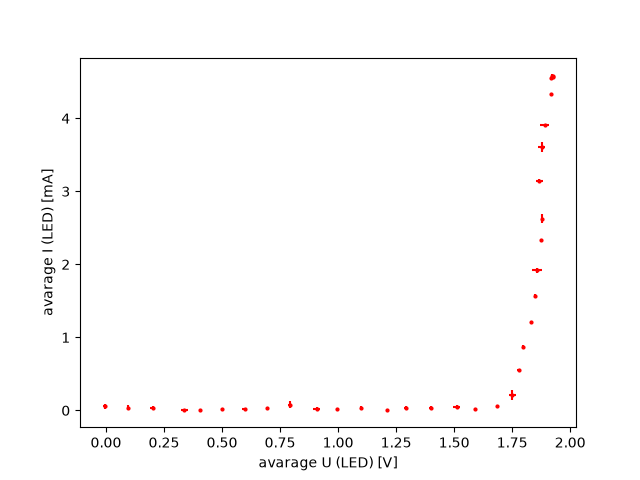
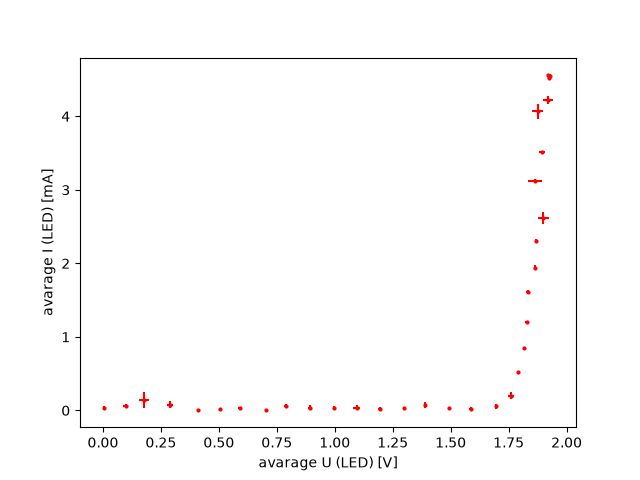
update(02.11)(14:14)
Pythondaq: repository
Pythondaq: start script
Pythondaq: quick 'n dirty meting
Pythondaq: onzekerheid
Pythondaq: schildpad of raket?
Pythondaq: herhaalmetingen
Pythondaq: CSV
Pythondaq: Git ignore

diff --git a/diode_experiment.py b/diode_experiment.py
@@ -69,7 +69,7 @@ list_all_I_ = []
 
 #Now lets find the mean values and errors
 
-N_repeat = 3
+N_repeat = 3 #we repeat measurments N_repeat times 
 
 for j in range (0, 34, 1): #voltage changes from 0 to maximum value 
     results_U =[]
@@ -80,7 +80,7 @@ for j in range (0, 34, 1): #voltage changes from 0 to maximum value
         results_U.append(_U)
         results_I.append(_I)
       
-    list_all_U_.append(results_U)
+    list_all_U_.append(results_U) #list with all results of voltage LED for each step
     list_all_I_.append(results_I) 
 
 f_U =[]
